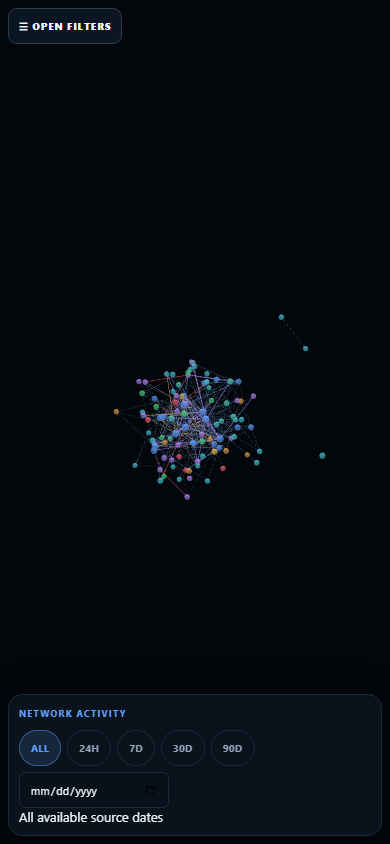
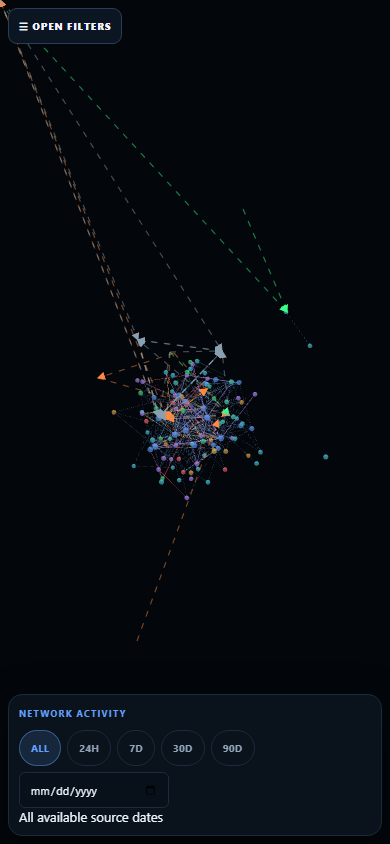
fix(web): declutter 3D view - compact HUD with collapsed legend, label culling, settled-graph fit, action-arrow pill labels removed, deterministic lazy frame load

diff --git a/intelligence_web_v2.js b/intelligence_web_v2.js
@@ -28,7 +28,7 @@ async function load(force=false){let live={};try{live=await get(LIVE,force);inde
 function edgeColor(e){if(isMention(e))return EDGE_COLORS.mention;const t=(e.types||[]).map(x=>String(x).toLowerCase()),r=String(e.relationship||'').toLowerCase();for(const k of ['sanctions','conflict','military','diplomatic','political','trade','economic','strategic','security','resource','oil','energy'])if(t.some(x=>x.includes(k))||r.includes(k))return EDGE_COLORS[k];return EDGE_COLORS.general}
 function showLoadingError(e){const el=$('loading');if(!el)return;el.style.display='grid';el.style.pointerEvents='auto';el.setAttribute('aria-hidden','false');el.innerHTML='<div style="text-align:center;padding:24px;max-width:520px"><b>INTELLIGENCE WEB DATA ERROR</b><br><small>'+esc(e?.message||'Unable to initialize the intelligence graph.')+'</small><br><button id="loading-retry" type="button" style="margin-top:12px">RETRY</button></div>';const b=$('loading-retry');if(b)b.onclick=()=>location.reload()}
 function hideLoading(){const el=$('loading');if(!el)return;el.style.display='none';el.style.pointerEvents='none';el.setAttribute('aria-hidden','true')}
-async function main(base){let active={nodes:[],links:[]},selected=null,dialog=false,filter='all',period='all',query='',relFilter='all',searchTimer=0,fitTimer=0,controls=true,orbit=false,orbitFrame=0,paused=false,relationships=true,labelFrame=0,pathMode=false,pathFrom=null,pathNodes=new Set(),pathLinks=new Set(),isolated=null,isolatedBackup=null,pins=loadPins(),labelsOn=true,brainMode=false,gapSev='all',storiesDoc=null,reduceMotion=!!(window.matchMedia&&window.matchMedia('(prefers-reduced-motion: reduce)').matches),lowTier=((navigator.hardwareConcurrency||8)<=4)||reduceMotion;
+async function main(base){let active={nodes:[],links:[]},selected=null,dialog=false,filter='all',period='all',query='',relFilter='all',searchTimer=0,fitTimer=0,controls=true,orbit=false,orbitFrame=0,paused=false,relationships=true,labelFrame=0,pathMode=false,pathFrom=null,pathNodes=new Set(),pathLinks=new Set(),isolated=null,isolatedBackup=null,pins=loadPins(),labelsOn=true,brainMode=false,gapSev='all',storiesDoc=null,needsFit=true,reduceMotion=!!(window.matchMedia&&window.matchMedia('(prefers-reduced-motion: reduce)').matches),lowTier=((navigator.hardwareConcurrency||8)<=4)||reduceMotion;
 const peer=(e,id)=>{const[a,b]=ends(e);return a===String(id)?b:a};const related=n=>active.links.filter(e=>ends(e).includes(String(n.id)));
 function styles(){const g=window.__gpGraph;if(!g)return;g.nodeColor(n=>pathNodes.size?(pathNodes.has(String(n.id))?'#ffffff':'#263844'):(selected?(n.id===selected.id?'#ffffff':related(selected).some(e=>peer(e,selected.id)===n.id)?NODE_COLORS[n.kind]||NODE_COLORS.actor:'#263844'):NODE_COLORS[n.kind]||NODE_COLORS.actor));g.nodeVal(n=>selected?(n.id===selected.id?Math.max(16,Math.min(34,12+Math.sqrt(Math.max(1,n.mentions))*2.5)):Math.max(9,Math.min(25,9+Math.sqrt(Math.max(1,n.mentions))*1.7))):Math.max(12,Math.min(30,12+Math.sqrt(Math.max(1,n.mentions))*2)));g.linkColor(e=>pathNodes.size?(pathLinks.has(e)?'#ffffff':'#1d2c3c'):(selected&&ends(e).includes(String(selected.id))?'#ffffff':edgeColor(e)));g.linkOpacity(e=>pathNodes.size?(pathLinks.has(e)?.95:.08):(selected&&ends(e).includes(String(selected.id))?.98:(isMention(e)?.32:.9)));g.linkWidth(e=>isMention(e)?1.2:Math.max(1.6,Math.min(9,1.6+Math.sqrt(edgeWeight(e)))))}
 function traceClick(node){const b=String(node.id);if(!pathFrom){pathFrom=b;pathNodes=new Set([b]);pathLinks=new Set();styles();return}const a=pathFrom,prev=new Map([[a,null]]),queue=[a];while(queue.length){const cur=queue.shift();if(cur===b)break;for(const e of active.links){const[s,t]=ends(e);const nxt=s===cur?t:(t===cur?s:null);if(nxt&&!prev.has(nxt)){prev.set(nxt,cur);queue.push(nxt)}}}if(prev.has(b)){const nodes=new Set([b]);let cur=b;while(prev.get(cur)){cur=prev.get(cur);nodes.add(cur)}pathNodes=nodes;pathLinks=new Set(active.links.filter(e=>{const[s,t]=ends(e);return nodes.has(s)&&nodes.has(t)}))}else{pathNodes=new Set([a,b]);pathLinks=new Set()}pathMode=false;pathFrom=null;const tb=$('trace');if(tb){tb.classList.remove('active');tb.setAttribute('aria-pressed','false')}styles()}
@@ -36,11 +36,53 @@ function renderLegend(){
   const wrap=document.querySelector('.legend');if(!wrap)return;
   const kinds={};for(const n of (base.nodes||[])){const k=String(n.kind||'actor');kinds[k]=(kinds[k]||0)+1}
   const links=base.links||[];const mentionCount=links.filter(isMention).length,actionCount=links.length-mentionCount;
-  wrap.innerHTML='<b>NODE KIND (real counts)</b> '+Object.entries(kinds).sort((a,b)=>b[1]-a[1]).slice(0,10).map(([k,c])=>'<span class="lg"><i style="background:'+(NODE_COLORS[k]||NODE_COLORS.actor)+'"></i>'+esc(NODE_KIND_LABELS[k]||k)+' '+c+'</span>').join(' ')+'<br><b>RELATIONSHIPS</b> <span class="lg"><i style="background:'+EDGE_COLORS.mention+'"></i>co-mention '+mentionCount+'</span> <span class="lg"><i style="background:'+EDGE_COLORS.general+'"></i>action / other '+actionCount+'</span> · colors mark relationship category, not risk or intent. Relationships are evidence/context links, not proof of causation.'
-    +(brainMode?' <br><b>BRAIN MODE</b> amber STORY nodes cluster canonical events; gray GAP nodes are detected missing pieces. Story/gap links show provenance, not causality.':'');
+  wrap.innerHTML='<details><summary>Legend, method and caveats</summary><div class="lg-body">'
+    +'<b>NODE KIND (real counts)</b> '+Object.entries(kinds).sort((a,b)=>b[1]-a[1]).slice(0,10).map(([k,c])=>'<span class="lg"><i style="background:'+(NODE_COLORS[k]||NODE_COLORS.actor)+'"></i>'+esc(NODE_KIND_LABELS[k]||k)+' '+c+'</span>').join(' ')
+    +'<br><b>RELATIONSHIPS</b> <span class="lg"><i style="background:'+EDGE_COLORS.mention+'"></i>co-mention '+mentionCount+'</span> <span class="lg"><i style="background:'+EDGE_COLORS.general+'"></i>action / other '+actionCount+'</span>'
+    +'<br>Colors mark relationship category, not risk or intent. Relationships are evidence/context links, not proof of causation. Dashed colored arrows mark source-backed actor→target actions (U.S./China action layer).'
+    +(brainMode?'<br><b>BRAIN MODE</b> amber STORY nodes cluster canonical events; gray GAP nodes are detected missing pieces. Story/gap links show provenance, not causality.':'')
+    +'</div></details>';
 }
-function ensureLabel(n){const wrap=$('labels');if(!wrap)return null;const id=String(n.id);let el=wrap.querySelector('[data-node-label="'+CSS.escape(id)+'"]');if(!el){el=document.createElement('div');el.className='node-label';el.dataset.nodeLabel=id;el.innerHTML='<span class="dot"></span><span class="text"></span>';wrap.appendChild(el)}const c=NODE_COLORS[n.kind]||NODE_COLORS.actor;el.querySelector('.text').textContent=String(n.label||n.name||n.title||n.id||'Entity');el.querySelector('.dot').style.background=c;el.querySelector('.dot').style.boxShadow='0 0 8px '+c;el.style.borderColor=c;el.style.display='block';el.classList.toggle('pinned',pins.has(id));return el}
-function syncLabels(){const wrap=$('labels'),g=window.__gpGraph;if(!wrap||!g||typeof g.graph2ScreenCoords!=='function')return;if(dialog){wrap.style.visibility='hidden';wrap.style.opacity='0';return}wrap.style.visibility='visible';wrap.style.opacity='1';const live=new Set();for(const n of active.nodes){const el=ensureLabel(n);if(!el)continue;const x=Number(n.x),y=Number(n.y),z=Number(n.z);if(!Number.isFinite(x)||!Number.isFinite(y)||!Number.isFinite(z)){el.style.visibility='hidden';continue}let p;try{p=g.graph2ScreenCoords(x,y,z)}catch{el.style.visibility='hidden';continue}if(!p||!Number.isFinite(p.x)||!Number.isFinite(p.y)){el.style.visibility='hidden';continue}live.add(String(n.id));el.style.left=Math.round(p.x)+'px';el.style.top=Math.round(p.y-28)+'px';el.style.visibility=(p.x>-250&&p.x<window.innerWidth+250&&p.y>-100&&p.y<window.innerHeight+100)?'visible':'hidden'}Array.from(wrap.children).forEach(el=>{if(!live.has(el.dataset.nodeLabel))el.style.display='none'})}
+function ensureLabel(n){const wrap=$('labels');if(!wrap)return null;const id=String(n.id);let el=wrap.querySelector('[data-node-label="'+CSS.escape(id)+'"]');if(!el){el=document.createElement('div');el.className='node-label';el.dataset.nodeLabel=id;el.innerHTML='<span class="dot"></span><span class="text"></span>';wrap.appendChild(el)}const c=NODE_COLORS[n.kind]||NODE_COLORS.actor;el.querySelector('.text').textContent=String(n.label||n.name||n.title||n.id||'Entity').slice(0,26);el.querySelector('.dot').style.background=c;el.querySelector('.dot').style.boxShadow='0 0 8px '+c;el.style.borderColor=c;el.style.display='block';el.classList.toggle('pinned',pins.has(id));return el}
+function syncLabels(){
+  const wrap=$('labels'),g=window.__gpGraph;
+  if(!wrap||!g||typeof g.graph2ScreenCoords!=='function')return;
+  if(dialog){wrap.style.visibility='hidden';wrap.style.opacity='0';return}
+  wrap.style.visibility='visible';wrap.style.opacity='1';
+  const items=[];
+  for(const n of active.nodes){
+    const el=ensureLabel(n);if(!el)continue;
+    const x=Number(n.x),y=Number(n.y),z=Number(n.z);
+    if(!Number.isFinite(x)||!Number.isFinite(y)||!Number.isFinite(z)){el.style.visibility='hidden';continue}
+    let p;try{p=g.graph2ScreenCoords(x,y,z)}catch{el.style.visibility='hidden';continue}
+    if(!p||!Number.isFinite(p.x)||!Number.isFinite(p.y)){el.style.visibility='hidden';continue}
+    if(!(p.x>-250&&p.x<window.innerWidth+250&&p.y>-120&&p.y<window.innerHeight+120)){el.style.visibility='hidden';continue}
+    const priority=(selected&&String(selected.id)===String(n.id))?4:(pins.has(String(n.id))?3:(n.kind==='story'?2.5:1+Math.log1p(Number(n.mentions)||0)/8));
+    items.push({n,el,p,priority});
+  }
+  items.sort((a,b)=>b.priority-a.priority);
+  const CELL=46,occupied=new Set(),visible=new Set();
+  for(const it of items){
+    const text=String(it.n.label||'');
+    const w=Math.min(170,text.length*6.2+16),h=15;
+    const x0=it.p.x-w/2,y0=it.p.y-29;
+    const cells=[];let clash=false;
+    for(let cx=Math.floor(x0/CELL);cx<=Math.floor((x0+w)/CELL)&&!clash;cx++){
+      for(let cy=Math.floor(y0/CELL);cy<=Math.floor((y0+h)/CELL);cy++){
+        const key=cx+','+cy;
+        if(occupied.has(key)){clash=true;break}
+        cells.push(key);
+      }
+    }
+    if(clash&&it.priority<2.4){it.el.style.visibility='hidden';continue}
+    for(const key of cells)occupied.add(key);
+    it.el.style.left=Math.round(it.p.x)+'px';
+    it.el.style.top=Math.round(it.p.y-28)+'px';
+    it.el.style.visibility='visible';
+    visible.add(String(it.n.id));
+  }
+  for(const el of Array.from(wrap.children)){if(!visible.has(el.dataset.nodeLabel))el.style.visibility='hidden'}
+}
 function startLabelLoop(){cancelAnimationFrame(labelFrame);if(reduceMotion){setInterval(syncLabels,200);return}const loop=()=>{syncLabels();labelFrame=requestAnimationFrame(loop)};loop()}
 function applyLabels(){const w=$('labels');if(w)w.style.display=labelsOn?'':'none';const b=$('labels-toggle');if(b){b.classList.toggle('active',labelsOn);b.setAttribute('aria-pressed',String(labelsOn))}}
 function close(){dialog=false;selected=null;const d=$('details');if(d){d.classList.remove('open');d.style.display='none';d.style.pointerEvents='none';d.setAttribute('aria-hidden','true')}const wrap=$('labels');if(wrap){wrap.style.visibility='visible';wrap.style.opacity='1'}paused=false;try{window.__gpGraph.resumeAnimation();window.__gpGraph.d3ReheatSimulation()}catch{}if(isolatedBackup){try{window.__gpGraph.graphData(isolatedBackup)}catch{}isolatedBackup=null;isolated=null}styles()}
@@ -114,6 +156,7 @@ function render(fit=true){
   const keep=new Set(keptLinks.map(e=>e.source).concat(keptLinks.map(e=>e.target)));
   const focusIds=new Set(view.focus.map(n=>String(n.id)));
   active={nodes:view.nodes.filter(n=>keep.has(String(n.id))||focusIds.has(String(n.id))),links:keptLinks};
+  needsFit=true;
   const NODE_BUDGET=150,LINK_BUDGET=600;let budgetTrimmed=false;
   if(active.nodes.length>NODE_BUDGET){active.nodes=active.nodes.slice(0,NODE_BUDGET);budgetTrimmed=true}
   if(active.links.length>LINK_BUDGET){active.links=active.links.slice(0,LINK_BUDGET);budgetTrimmed=true}
@@ -124,7 +167,7 @@ function render(fit=true){
   window.__gpGraph.graphData(active);
   styles();
   clearTimeout(fitTimer);
-  fitTimer=setTimeout(()=>{if(active.nodes.length&&(fit||active.nodes.length<=3)){try{window.__gpGraph.zoomToFit(700,90)}catch{}}syncLabels()},450);
+  fitTimer=setTimeout(()=>{if(needsFit&&active.nodes.length){needsFit=false;try{window.__gpGraph.zoomToFit(700,80)}catch{}}syncLabels()},2600);
   const range=period==='all'?'all available dates':`last ${period} hours`;
   const capNote=[];
   if(budgetTrimmed)capNote.push('view trimmed to '+NODE_BUDGET+' nodes / '+LINK_BUDGET+' connections for rendering');
@@ -155,7 +198,8 @@ function render(fit=true){
 if(typeof ForceGraph3D!=='function')throw Error('3D graph library failed to load');
 const graphBuilder=new ForceGraph3D($('graph'),{controlType:'orbit',rendererConfig:{antialias:true,alpha:true,powerPreference:'high-performance'}}).backgroundColor('#03070b').showNavInfo(false).nodeId('id').nodeRelSize(6).nodeVal(n=>Math.max(12,Math.min(30,12+Math.sqrt(Math.max(1,n.mentions))*2))).nodeLabel(n=>'<b>'+esc(n.label)+'</b><br>'+esc(n.kind)+' · '+n.mentions+' mentions').nodeColor(n=>NODE_COLORS[n.kind]||NODE_COLORS.actor).linkColor(edgeColor).linkOpacity(.9).linkWidth(e=>isMention(e)?1.2:Math.max(1.6,Math.min(9,1.6+Math.sqrt(edgeWeight(e))))).linkLabel(e=>{const[s,t]=ends(e);const a=active.nodes.find(n=>String(n.id)===s),b=active.nodes.find(n=>String(n.id)===t);return'<b>'+esc(a?.label||s)+'</b> '+(isMention(e)?'co-mentioned with':'→')+' <b>'+esc(b?.label||t)+'</b><br>'+esc(e.relationship||'')+' · '+((e.evidence||[]).length)+' source records'}).linkDirectionalParticles(e=>relationships&&!paused&&!reduceMotion&&!lowTier&&!document.hidden&&!isMention(e)?2:0).linkDirectionalParticleSpeed(.012).enableNodeDrag(true).onNodeClick(node=>{if(pathMode)traceClick(node);else show(node)}).d3VelocityDecay(.65).d3AlphaDecay(.08).warmupTicks(100).cooldownTicks(180);window.__gpGraph=graphBuilder;
 window.addEventListener('resize',()=>{graphBuilder.width(window.innerWidth).height(window.innerHeight);syncLabels()});
-try{graphBuilder.d3Force('charge').strength(-650).distanceMax(1500);graphBuilder.d3Force('link').distance(e=>Math.max(120,210-(Number(e.weight)||1)*10))}catch{}
+try{graphBuilder.d3Force('charge').strength(-900).distanceMax(1800);graphBuilder.d3Force('link').distance(e=>Math.max(140,260-(Number(e.weight)||1)*10))}catch{}
+graphBuilder.onEngineStop(()=>{if(needsFit&&!dialog){needsFit=false;try{window.__gpGraph.zoomToFit(600,80)}catch{}}});
 const details=$('details'),closeBtn=$('close');details.addEventListener('keydown',e=>{if(e.key!=='Tab')return;const f=details.querySelectorAll('button,a[href],input,select,textarea,[tabindex]:not([tabindex="-1"])');if(!f.length)return;const first=f[0],last=f[f.length-1];if(e.shiftKey&&document.activeElement===first){e.preventDefault();last.focus()}else if(!e.shiftKey&&document.activeElement===last){e.preventDefault();first.focus()}});details.addEventListener('pointerdown',e=>e.stopPropagation(),true);details.addEventListener('click',e=>e.stopPropagation());details.addEventListener('touchstart',e=>e.stopPropagation(),{capture:true,passive:true});closeBtn.addEventListener('click',e=>{e.preventDefault();e.stopPropagation();close();$('node-select').value='';});details.addEventListener('click',e=>{const a=e.target.closest?.('.source-resolve');if(!a)return;e.preventDefault();e.stopPropagation();const t=normTitle(a.dataset.title),s=normTitle(a.dataset.source),u=liveBySourceTitle.get(s+'|'+t)||liveByTitle.get(t)||'';if(u)window.open(u,'_blank','noopener,noreferrer');else{a.textContent='SOURCE URL NOT AVAILABLE';a.disabled=true}},{capture:true});$('clear').onclick=()=>{clearTimeout(searchTimer);$('search').value='';query='';render()};$('refresh').onclick=()=>load(true).then(x=>{base=x;render()}).catch(showLoadingError);$('search').oninput=e=>{const v=e.target.value;clearTimeout(searchTimer);const probe=window.IntelligenceWebFilters.project(base,{query:v,category:filter,period});const qtr=v.trim().toLowerCase();const hasEvidence=qtr&&(base.nodes||[]).some(n=>(n.evidence||[]).some(x=>String(x.title||x.summary||'').toLowerCase().includes(qtr)));if(qtr&&!probe.focus.length&&!hasEvidence){query=v;render(true)}else{searchTimer=setTimeout(()=>{query=v;render(false)},160)}};document.querySelectorAll('.filter').forEach(b=>b.onclick=()=>{filter=b.dataset.kind||'all';document.querySelectorAll('.filter').forEach(x=>x.classList.toggle('active',x===b));render()});$('reset').onclick=()=>{clearTimeout(searchTimer);filter='all';period='all';query='';relFilter='all';$('search').value='';const rt=$('rel-type');if(rt)rt.value='all';const sn=$('since');if(sn)sn.value='';pathMode=false;pathFrom=null;pathNodes=new Set();pathLinks=new Set();const tb0=$('trace');if(tb0){tb0.classList.remove('active');tb0.setAttribute('aria-pressed','false')}document.querySelectorAll('.filter').forEach(b=>b.classList.toggle('active',b.dataset.kind==='all'));render(true)};$('trace').onclick=function(){pathMode=!pathMode;pathFrom=null;pathNodes=new Set();pathLinks=new Set();this.classList.toggle('active',pathMode);this.setAttribute('aria-pressed',String(pathMode));styles()};$('labels-toggle').onclick=()=>{labelsOn=!labelsOn;applyLabels()};$('brain-mode').onclick=function(){brainMode=!brainMode;this.classList.toggle('active',brainMode);this.setAttribute('aria-pressed',String(brainMode));const gs=$('gap-sev');if(gs)gs.style.display=brainMode?'':'none';if(brainMode&&!storiesDoc){get(STORY).then(d=>{storiesDoc=d;render(false)}).catch(()=>{storiesDoc={stories:[],gaps:[]};render(false)})}else render(false)};$('gap-sev').onchange=e=>{gapSev=String(e.target.value||'all');render(false)};if(reduceMotion){const ob=$('orbit');if(ob){ob.disabled=true;ob.title='Disabled by reduced-motion preference'}}applyLabels();window.addEventListener('message',e=>{if(e.origin!==window.location.origin)return;const d=e.data;if(d&&d.type==='gp:web-focus'){const t=active.nodes.find(n=>String(n.id)===String(d.id))||active.nodes.find(n=>normTitle(n.label)===normTitle(d.label));if(t)show(t)}});const relSel=$('rel-type');if(relSel)relSel.onchange=e=>{relFilter=e.target.value;render(false)};const since=$('since');if(since)since.onchange=e=>{const v=e.target.value;if(!v)return;const t=Date.parse(v+'T00:00:00');if(!Number.isFinite(t))return;period=String(Math.max(1,Math.round((Date.now()-t)/3600000)));render(true)};$('orbit').onclick=function(){if(reduceMotion){this.disabled=true;return}orbit=!orbit;this.classList.toggle('active',orbit);this.setAttribute('aria-pressed',String(orbit));cancelAnimationFrame(orbitFrame);if(orbit){let a=0;const go=()=>{if(!orbit||paused)return;window.__gpGraph.cameraPosition({x:720*Math.sin(a),y:150,z:720*Math.cos(a)},undefined,0);a+=.0025;orbitFrame=requestAnimationFrame(go)};go()}};$('flow').onclick=function(){relationships=!relationships;this.classList.toggle('active',relationships);this.setAttribute('aria-pressed',String(relationships));window.__gpGraph.linkVisibility(relationships);window.__gpGraph.linkDirectionalParticles(e=>relationships&&!paused&&!reduceMotion&&!lowTier&&!document.hidden&&!isMention(e)?2:0)};document.querySelectorAll('.period').forEach(b=>b.onclick=()=>{period=b.dataset.period||'all';render()});$('node-select').onchange=e=>{const id=e.target.value;clearTimeout(searchTimer);query=$('search').value;render(false);if(id)show(active.nodes.find(n=>n.id===id)||active.nodes[0]||null)};document.addEventListener('keydown',e=>{if(e.key==='Escape'&&dialog){close();$('node-select').focus();return}if(!dialog||(e.key!=='ArrowDown'&&e.key!=='ArrowUp'))return;const list=active.nodes.slice().sort((a,b)=>String(a.label).localeCompare(String(b.label)));if(!list.length)return;const idx=list.findIndex(x=>x.id===selected?.id);const next=list[(idx+(e.key==='ArrowDown'?1:-1)+list.length)%list.length];if(next){e.preventDefault();show(next,true)}});render();startLabelLoop();$('details').style.pointerEvents='none';$('details').setAttribute('aria-hidden','true');hideLoading();document.addEventListener('visibilitychange',()=>{const g=window.__gpGraph;if(!g)return;if(document.hidden){try{g.pauseAnimation()}catch{}}else if(!paused){try{g.resumeAnimation()}catch{}}});const gEl=$('graph');if(gEl)gEl.addEventListener('webglcontextlost',e=>{e.preventDefault();showLoadingError(new Error('WebGL context lost. Reload the page to restore the 3D view.'))},true);setInterval(()=>{if(!document.hidden&&!dialog)load(true).then(x=>{if(x.updatedAt!==base.updatedAt){base=x;render()}}).catch(e=>console.warn('[Intelligence Web refresh]',e))},60000)}
 $('stats').textContent='Loading evidence graph…';load().then(main).catch(showLoadingError);
 })();

diff --git a/intelligence_action_flow.js b/intelligence_action_flow.js
@@ -10,7 +10,7 @@ function collectCanonical(d){const entities=new Map((d.entities||[]).filter(e=>e
 function collectFallback(d){actions=[];(d.nodes||[]).forEach(n=>(n.actions||[]).forEach(a=>{if(!a||!a.actor||!a.target||!a.action||!Array.isArray(a.evidence)||!a.evidence.length)return;actions.push({actor:n.label||a.actor,target:a.target,action:a.action,category:String(a.category||'security').toLowerCase(),importance:Number(a.importance||a.weight||1),confidence:Number(a.confidence||0),evidence:a.evidence})}));actions.sort((a,b)=>b.importance-a.importance);actions=actions.slice(0,40)}
 function labelMap(){const m=new Map();document.querySelectorAll('.node-label').forEach(e=>{const t=norm(e.textContent);if(t)m.set(t,e)});return m}
 function resolveLabel(map,name){for(const a of aliases(name))if(map.has(a))return map.get(a);return map.get(norm(name))}
-function draw(){raf=0;ensure();if(document.hidden||!enabled){while(svg.firstChild)svg.removeChild(svg.firstChild);return}while(svg.firstChild)svg.removeChild(svg.firstChild);const map=labelMap();let i=0;for(const a of actions){const s=resolveLabel(map,a.actor),t=resolveLabel(map,a.target);if(!s||!t||s===t)continue;const sr=s.getBoundingClientRect(),tr=t.getBoundingClientRect(),x1=sr.left+sr.width/2,y1=sr.top+sr.height/2,x2=tr.left+tr.width/2,y2=tr.top+tr.height/2,dx=x2-x1,dy=y2-y1,len=Math.hypot(dx,dy);if(len<35)continue;const color=C[a.category]||C.default,id='gpaf'+(++i),defs=document.createElementNS('http://www.w3.org/2000/svg','defs'),mk=document.createElementNS('http://www.w3.org/2000/svg','marker');mk.id=id;mk.setAttribute('markerWidth','7');mk.setAttribute('markerHeight','7');mk.setAttribute('refX','6');mk.setAttribute('refY','3.5');mk.setAttribute('orient','auto');const path=document.createElementNS('http://www.w3.org/2000/svg','path');path.setAttribute('d','M0,0 L7,3.5 L0,7 Z');path.setAttribute('fill',color);mk.appendChild(path);defs.appendChild(mk);svg.appendChild(defs);const line=document.createElementNS('http://www.w3.org/2000/svg','line');line.setAttribute('x1',x1);line.setAttribute('y1',y1);line.setAttribute('x2',x2);line.setAttribute('y2',y2);line.setAttribute('stroke',color);line.setAttribute('stroke-width',String(Math.min(3,1+Math.log1p(a.importance))));line.setAttribute('stroke-opacity',String(.48+Math.min(.3,a.confidence*.3)));line.setAttribute('stroke-dasharray','6 7');line.setAttribute('marker-end',`url(#${id})`);svg.appendChild(line);const g=document.createElementNS('http://www.w3.org/2000/svg','g'),tx=x1+dx*.5,ty=y1+dy*.5,bg=document.createElementNS('http://www.w3.org/2000/svg','rect');bg.setAttribute('x',tx-60);bg.setAttribute('y',ty-10);bg.setAttribute('width','120');bg.setAttribute('height','20');bg.setAttribute('rx','7');bg.setAttribute('fill','#02070c');bg.setAttribute('fill-opacity','.92');bg.setAttribute('stroke',color);bg.setAttribute('stroke-opacity','.55');const text=document.createElementNS('http://www.w3.org/2000/svg','text');text.setAttribute('x',tx);text.setAttribute('y',ty+3);text.setAttribute('text-anchor','middle');text.setAttribute('fill','#eaf4ff');text.setAttribute('font-size','8');text.setAttribute('font-family','system-ui,sans-serif');text.setAttribute('font-weight','700');text.textContent=a.action.length>28?a.action.slice(0,27)+'…':a.action;g.appendChild(bg);g.appendChild(text);svg.appendChild(g)}}
+function draw(){raf=0;ensure();if(document.hidden||!enabled){while(svg.firstChild)svg.removeChild(svg.firstChild);return}while(svg.firstChild)svg.removeChild(svg.firstChild);const map=labelMap();let i=0;for(const a of actions){const s=resolveLabel(map,a.actor),t=resolveLabel(map,a.target);if(!s||!t||s===t)continue;const sr=s.getBoundingClientRect(),tr=t.getBoundingClientRect(),x1=sr.left+sr.width/2,y1=sr.top+sr.height/2,x2=tr.left+tr.width/2,y2=tr.top+tr.height/2,dx=x2-x1,dy=y2-y1,len=Math.hypot(dx,dy);if(len<35)continue;const color=C[a.category]||C.default,id='gpaf'+(++i),defs=document.createElementNS('http://www.w3.org/2000/svg','defs'),mk=document.createElementNS('http://www.w3.org/2000/svg','marker');mk.id=id;mk.setAttribute('markerWidth','7');mk.setAttribute('markerHeight','7');mk.setAttribute('refX','6');mk.setAttribute('refY','3.5');mk.setAttribute('orient','auto');const path=document.createElementNS('http://www.w3.org/2000/svg','path');path.setAttribute('d','M0,0 L7,3.5 L0,7 Z');path.setAttribute('fill',color);mk.appendChild(path);defs.appendChild(mk);svg.appendChild(defs);const line=document.createElementNS('http://www.w3.org/2000/svg','line');line.setAttribute('x1',x1);line.setAttribute('y1',y1);line.setAttribute('x2',x2);line.setAttribute('y2',y2);line.setAttribute('stroke',color);line.setAttribute('stroke-width',String(Math.min(3,1+Math.log1p(a.importance))));line.setAttribute('stroke-opacity',String(.48+Math.min(.3,a.confidence*.3)));line.setAttribute('stroke-dasharray','6 7');line.setAttribute('marker-end',`url(#${id})`);svg.appendChild(line);}}
 function queue(){if(document.hidden)return;if(!raf)raf=requestAnimationFrame(draw)}
 async function load(){try{let r=await fetch(DATA+'?v='+Date.now(),{cache:'no-store'});if(r.ok){const d=await r.json();if(Array.isArray(d.events)&&Array.isArray(d.entities)){collectCanonical(d);queue();return}}r=await fetch(FALLBACK+'?v='+Date.now(),{cache:'no-store'});if(r.ok){collectFallback(await r.json());queue()}}catch(e){console.warn('Action flow layer unavailable',e)}}
 function init(){load();new MutationObserver(queue).observe(document.getElementById('graph')||document.body,{childList:true,subtree:true});addEventListener('resize',queue);setInterval(queue,500);const btn=document.getElementById('actions-layer');if(btn){btn.onclick=()=>{enabled=!enabled;btn.classList.toggle('active',enabled);btn.setAttribute('aria-pressed',String(enabled));queue()}}}

diff --git a/index.html b/index.html
@@ -57,7 +57,7 @@
       <section class="gp-section" id="section-breaking" data-section="breaking"><div class="gp-section-header"><h2 class="gp-section-title"><span>⚡</span> News · Latest Reporting</h2></div><div class="gp-section-body" id="breakingBody"><div class="gp-state"><div class="gp-spinner"></div><div>Loading reporting…</div></div></div></section>
       <section class="gp-section" id="section-conflicts" data-section="conflicts"><div class="gp-section-header"><h2 class="gp-section-title"><span>⚔</span> Active Conflict Watch</h2></div><div class="gp-section-body" id="conflictsBody"><div class="gp-state"><div class="gp-spinner"></div><div>Loading conflict signals…</div></div></div></section>
       <section class="gp-section" id="section-brain" data-section="brain"><div class="gp-section-header"><h2 class="gp-section-title"><span>🧠</span> Intelligence Brain</h2><div class="gp-header-meta" id="brainUpdated"></div></div><div class="gp-section-body" id="brainBody"><div class="gp-state"><div class="gp-spinner"></div><div>Loading brain…</div></div></div></section>
-      <section class="gp-section" id="section-intelweb" data-section="intelweb"><div class="gp-section-header"><h2 class="gp-section-title"><span>🕸</span> Intelligence Web</h2><div class="gp-header-meta" id="intelwebUpdated"></div></div><div class="gp-section-body"><div id="intelwebBody"><div class="gp-state"><div class="gp-spinner"></div><div>Loading relationship web…</div></div></div></div><div class="gp-section-body" style="padding:0"><iframe class="gp-intelweb-frame" src="intelligence-web.html?v=20260907-runtimefix3" title="Aegis Nexus Intelligence Web" loading="lazy"></iframe></div></section>
+      <section class="gp-section" id="section-intelweb" data-section="intelweb"><div class="gp-section-header"><h2 class="gp-section-title"><span>🕸</span> Intelligence Web</h2><div class="gp-header-meta" id="intelwebUpdated"></div></div><div class="gp-section-body"><div id="intelwebBody"><div class="gp-state"><div class="gp-spinner"></div><div>Loading relationship web…</div></div></div></div><div class="gp-section-body" style="padding:0"><iframe class="gp-intelweb-frame" src="intelligence-web.html?v=20260907-runtimefix3" data-src="intelligence-web.html?v=20260907-runtimefix3" title="Aegis Nexus Intelligence Web" loading="lazy"></iframe></div></section>
       <section class="gp-section" id="section-map" data-section="map"><div class="gp-section-header"><h2 class="gp-section-title"><span>🗺</span> Global Situation Map</h2><div class="gp-header-meta" id="mapUpdated"></div><div class="gp-map-tools"><button class="gp-btn" data-layer="all" type="button">All</button><button class="gp-btn" data-layer="conflict" type="button"><span class="gp-map-layer-dot" style="background:#ff405f"></span>Conflict</button><button class="gp-btn" data-layer="hazard" type="button"><span class="gp-map-layer-dot" style="background:#ffd34d"></span>Hazards</button><button class="gp-btn" data-layer="strategic" type="button"><span class="gp-map-layer-dot" style="background:#4d9aff"></span>Strategic</button><button class="gp-btn" data-layer="cartel" type="button"><span class="gp-map-layer-dot" style="background:#ff8a35"></span>Cartel/Crime</button><button class="gp-btn" data-layer="osint" type="button"><span class="gp-map-layer-dot" style="background:#b08cff"></span>OSINT</button></div></div><div class="gp-section-body"><div id="mapOpsBody"><div class="gp-state"><div class="gp-spinner"></div><div>Loading map operations…</div></div></div></div><div class="gp-section-body" style="padding:0"><div id="mapContainer" role="application" aria-label="Global geospatial operations map" style="height:420px;width:100%;background:var(--bg-elevated)"></div><div id="mapSidePanel" class="gp-card" role="region" aria-label="Signal details" style="display:none;margin:12px;border-radius:0 0 var(--radius) var(--radius)"></div></div></section>
       <section class="gp-section" id="section-markets" data-section="markets"><div class="gp-section-header"><h2 class="gp-section-title"><span>📈</span> Market Pulse</h2><span class="gp-badge delayed">DELAYED</span></div><div class="gp-section-body" id="marketsBody"><div class="gp-state"><div class="gp-spinner"></div><div>Loading market pulse…</div></div></div></section>
       <section class="gp-section" id="section-status" data-section="status"><div class="gp-section-header"><h2 class="gp-section-title"><span>📡</span> Sources &amp; System Health</h2><div class="gp-header-meta" id="statusUpdated"></div></div><div class="gp-section-body" id="statusBody"><div class="gp-state"><div>Waiting for health data…</div></div></div></section>

diff --git a/intelligence-web.html b/intelligence-web.html
@@ -15,11 +15,11 @@
 #labels{position:fixed;inset:0;z-index:8;pointer-events:none;overflow:hidden}
 .node-label{position:absolute;transform:translate(-50%,-50%);white-space:nowrap;color:#e8f5fb;text-shadow:0 2px 8px #000;font:700 10px system-ui,sans-serif;opacity:.88;border:1px solid transparent;border-radius:6px;padding:2px 4px;background:rgba(0,0,0,.28)}
 .node-label .dot{display:inline-block;width:6px;height:6px;border-radius:50%;margin-right:4px}
-.hud{position:fixed;left:14px;top:54px;max-height:calc(100vh - 170px);overflow:auto;width:min(720px,calc(100vw - 28px));z-index:30}.hud.collapsed{transform:translateY(-125%);opacity:0;pointer-events:none}
+.hud{position:fixed;left:14px;top:54px;max-height:calc(100vh - 210px);overflow:auto;width:min(380px,calc(100vw - 28px));z-index:30}.hud.collapsed{transform:translateY(-125%);opacity:0;pointer-events:none}
 .control-toggle{position:fixed;left:14px;top:14px;z-index:1200;border:1px solid var(--line);background:#07121b;color:var(--text);border-radius:9px;padding:8px 10px;min-height:34px;font-size:9px;font-weight:850}.control-toggle.active{color:var(--sev-info);border-color:var(--sev-info)}
-.card{background:var(--panel);border:1px solid var(--line);border-radius:12px;padding:10px 12px;backdrop-filter:blur(14px);box-shadow:0 12px 40px #000}.brand{color:var(--sev-info);font-weight:900;letter-spacing:.14em;font-size:11px}.sub{color:var(--muted);font-size:10px;margin-top:4px;line-height:1.4}.row{display:flex;flex-wrap:wrap;gap:6px;margin-top:8px}
+.card{background:var(--panel);border:1px solid var(--line);border-radius:12px;padding:10px 12px;backdrop-filter:blur(14px);box-shadow:0 12px 40px #000}.brand{color:var(--sev-info);font-weight:900;letter-spacing:.14em;font-size:10px}.sub{color:var(--muted);font-size:9.5px;margin-top:3px;line-height:1.35}.row{display:flex;flex-wrap:wrap;gap:5px;margin-top:7px}
 input,button,select{border:1px solid var(--line);background:#07121b;color:var(--text);border-radius:8px;padding:7px 9px;font-size:10px}select{width:100%;max-width:100%}input{flex:1;min-width:140px}button{cursor:pointer;font-weight:750}button.active,.filter.active{color:var(--sev-info);border-color:var(--sev-info)}#stats{margin-top:8px;color:var(--muted);font-size:10px}.legend{margin-top:6px;color:var(--muted);font-size:9px;line-height:1.35}
-.timeline{position:fixed;left:14px;bottom:14px;z-index:30;width:min(520px,calc(100vw - 28px))}.timeline .card{padding:8px 10px}.timeline b{color:var(--sev-info);font-size:9px;letter-spacing:.1em}
+.timeline{position:fixed;left:14px;bottom:14px;z-index:30;width:min(360px,calc(100vw - 28px))}.timeline .card{padding:8px 10px}.timeline b{color:var(--sev-info);font-size:9px;letter-spacing:.1em}
 #details{position:fixed;right:14px;top:14px;width:min(360px,calc(100vw - 28px));max-height:calc(100vh - 28px);overflow:auto;z-index:40;display:none;background:var(--panel);border:1px solid var(--line);border-radius:12px;padding:12px;backdrop-filter:blur(14px)}#details.open{display:block}#detail{padding-top:30px}.detail-close{position:absolute;right:10px;top:8px}
 #loading{position:fixed;inset:0;display:grid;place-items:center;background:rgba(0,0,0,.55);z-index:2000;color:var(--muted);font-size:12px}
 @media(max-width:700px){.hud{left:8px;top:52px;width:calc(100vw - 16px)}.control-toggle{left:8px;top:8px}.timeline{left:8px;bottom:8px;width:calc(100vw - 16px)}#details{left:8px;right:8px;width:auto;top:auto;bottom:70px;max-height:45vh}}
@@ -49,6 +49,9 @@ button.active,.filter.active,.period.active{color:var(--blue);border-color:rgba(
 #stats{margin-top:10px;font-size:10.5px;color:var(--muted);line-height:1.5}
 #stats b{color:var(--text)}
 .legend{margin-top:8px;font-size:9.5px;line-height:1.5;color:var(--muted-2)}
+.legend details{background:rgba(2,8,14,.5);border:1px solid var(--line);border-radius:8px;padding:6px 8px}
+.legend summary{cursor:pointer;font-size:9.5px;letter-spacing:.08em;text-transform:uppercase;color:var(--muted);font-weight:700}
+.legend .lg-body{margin-top:6px}
 .legend b{color:var(--muted);font-size:9px;letter-spacing:.08em}
 .legend .lg{display:inline-flex;align-items:center;gap:4px;margin-right:6px;white-space:nowrap}
 .legend .lg i{display:inline-block;width:8px;height:8px;border-radius:50%;flex:0 0 auto}

diff --git a/js/app.js b/js/app.js
@@ -150,6 +150,10 @@ function handleActivation(view) {
     try { modules.map?.initMap?.(); } catch (err) { console.error('Map init failed', err); }
   }
   if (view === 'intelweb') {
+    const frame = document.querySelector('.gp-intelweb-frame');
+    if (frame && !frame.getAttribute('src') && frame.dataset.src) {
+      try { frame.setAttribute('src', frame.dataset.src); } catch {}
+    }
     try { window.__gpLoadIntelWebFrame?.(); } catch {}
   }
   renderView(view);
